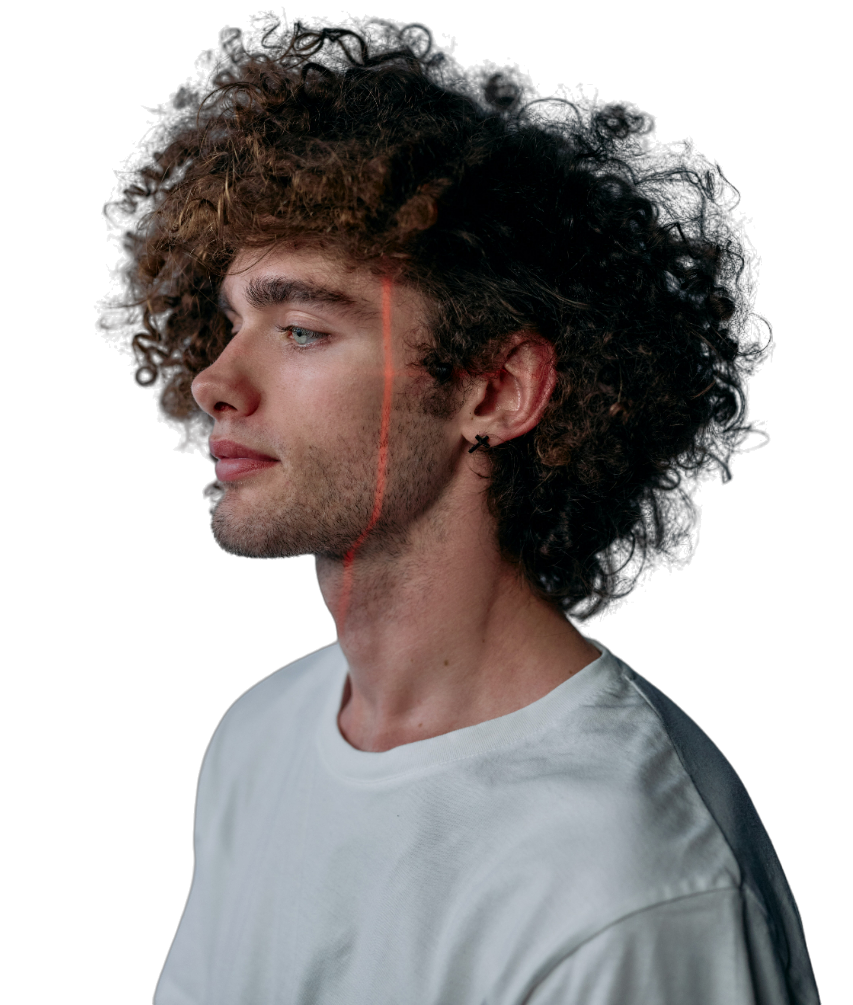
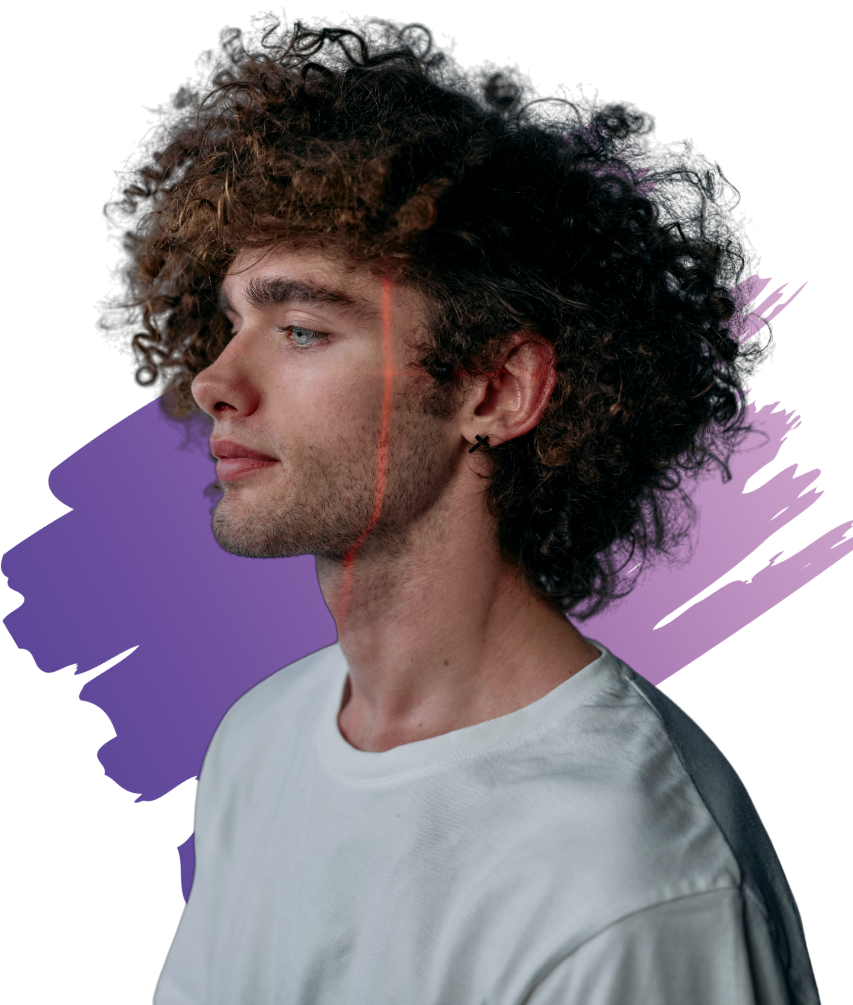
Added two new Projects and fixed image Project_image styling.

diff --git a/index.html b/index.html
@@ -147,18 +147,16 @@
               </ul>
             </div>
           </div>
-          <!-- <img src="assets/img/home.png" alt="Manish Syal" class="home__img" /> -->
           <img
-            src="assets/img/demo1try2.png"
+            src="assets/img/demo1try2resize.png"
             alt="Manish Syal"
             class="home__img"
           />
           <!-- <img
-            src="assets/img/demo1try.png"
+            src="assets/img/My project-2.png"
             alt="Manish Syal"
             class="home__img"
           /> -->
-          <!-- <img src="assets/img/splash.png" id="splash" /> -->
         </div>
       </section>
 
@@ -181,6 +179,7 @@
               Ansible, and AWS. Currently learning DevOps with AWS . I have
               solved 300+ problems on Leetcode and solve daily POTD on GFG.
             </p>
+
             <a
               href="assets/resume/Resume_Manish_Syal.pdf"
               download
@@ -438,13 +437,65 @@
         </div>
       </section>
 
-      <!--===================== Portfolio =====================-->
+      <!--===================== Portfolio/Projects Section=====================-->
       <section id="portfolio" class="portfolio section">
         <div class="section__header container">
           <span class="section__subtitle">Portfolio</span>
           <h2 class="section__title">Featured Projects</h2>
         </div>
         <div class="d-grid portfolio__wrapper container">
+          <!-- AI-Mock-Interviewer -->
+          <div class="portfolio__project">
+            <div class="portfolio__overlay"></div>
+            <img
+              src="assets/img/AI-Mock-Interviewer.png"
+              alt="AI-Mock-Interviewer"
+              class="portfolio__img"
+            />
+            <div class="portfolio__info">
+              <div class="portfolio__info-wrapper">
+                <h3 class="portfolio__title">AI-Mock-Interviewer</h3>
+                <p class="portfolio__description">
+                  • Developed a Web application with Nextjs and Gemini AI. •
+                  Added user Authentication using Clerk. • Utilized Tailwindcss
+                  and shadcn components to have a userfriendly UI.
+                </p>
+              </div>
+            </div>
+            <a
+              href="https://manish-ai-mock-interviewer.vercel.app"
+              class="portfolio__link"
+            >
+              <i class="ri-external-link-line"></i>
+            </a>
+          </div>
+
+          <!--AI-Resume-Builder -->
+          <div class="portfolio__project">
+            <div class="portfolio__overlay"></div>
+            <img
+              src="assets/img/AI-Resume-Builder.png"
+              alt="AI-Resume-Builder "
+              class="portfolio__img"
+            />
+            <div class="portfolio__info">
+              <div class="portfolio__info-wrapper">
+                <h3 class="portfolio__title">AI-Resume-Builder</h3>
+                <p class="portfolio__description">
+                  • A Mock interviewer using Gemini AI. • used Nextjs, Clerk for
+                  Authentication and NeonDB for Database . • Utilized
+                  Tailwindcss and shadcn components to have a userfriendly UI.
+                </p>
+              </div>
+            </div>
+            <a
+              href="https://manish-ai-resume-builder.vercel.app"
+              class="portfolio__link"
+            >
+              <i class="ri-external-link-line"></i>
+            </a>
+          </div>
+
           <div class="portfolio__project">
             <div class="portfolio__overlay"></div>
             <img
@@ -748,7 +799,7 @@
               <textarea
                 name="textarea"
                 class="form__input form__textarea"
-                placeholder="Tell me about your project"
+                placeholder="Write you message here"
                 required
               ></textarea>
             </div>

diff --git a/assets/css/main.css b/assets/css/main.css
@@ -385,6 +385,8 @@ body {
 .home__img {
   margin-top: -2rem;
   /* max-height: 95%; */
+  overflow: hidden;
+  transition: all ease 1s;
 }
 .home__img:hover {
   border-radius: 65%;
@@ -395,6 +397,8 @@ body {
     /* inner right cyan broad */ 0 0 50px #fff,
     /* outer white */ -10px 0 80px #f0f,
     /* outer left magenta */ 10px 0 80px #0ff; /* outer right cyan */
+
+  scale: 1.1;
 }
 .home__wrapper {
   min-height: calc(100vh - var(--height-header));
@@ -671,6 +675,13 @@ body {
   border-radius: var(--b-radius);
 }
 
+.portfolio__img {
+  width: 100%;
+  height: 100%;
+  object-fit: cover;
+  transition: var(--transition);
+}
+
 .portfolio__info {
   position: absolute;
   bottom: -100%;
@@ -696,8 +707,10 @@ body {
   right: -100%;
   width: 5rem;
   height: 5rem;
-  background-color: var(--color-white);
-  color: var(--color-title);
+  /* background-color: var(--color-white);
+  color: var(--color-title); */
+  background-color: var(--color-primary);
+  color: var(--color-white);
   border-radius: 50%;
   display: flex;
   justify-content: center;
@@ -706,10 +719,10 @@ body {
   transition: var(--transition);
 }
 
-.portfolio__link:hover {
+/* .portfolio__link:hover {
   background-color: var(--color-primary);
   color: var(--color-white);
-}
+} */
 
 .portfolio__overlay {
   background-color: var(--color-secondary);
@@ -1019,6 +1032,9 @@ body {
   color: var(--color-gray-light);
 }
 
+#wave {
+  margin-bottom: -30px;
+}
 /* ScrollTop
 --------------------------------------------------------------*/
 .scrolltop {
